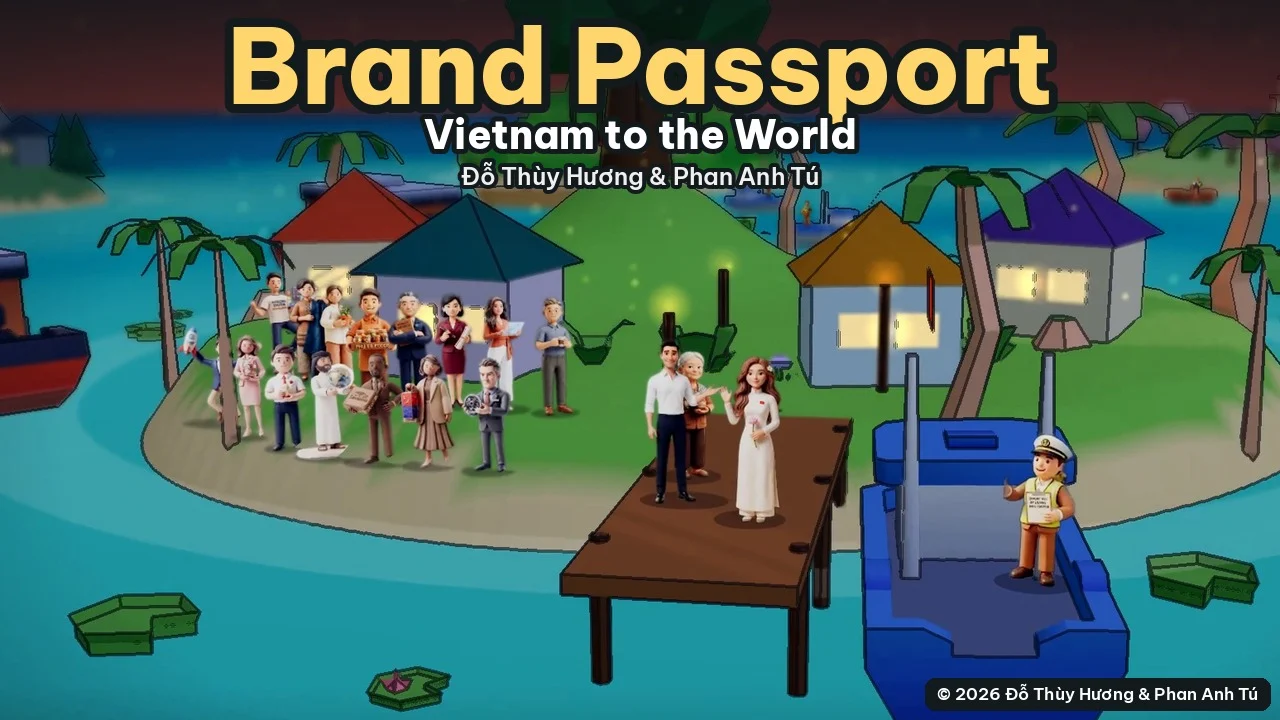
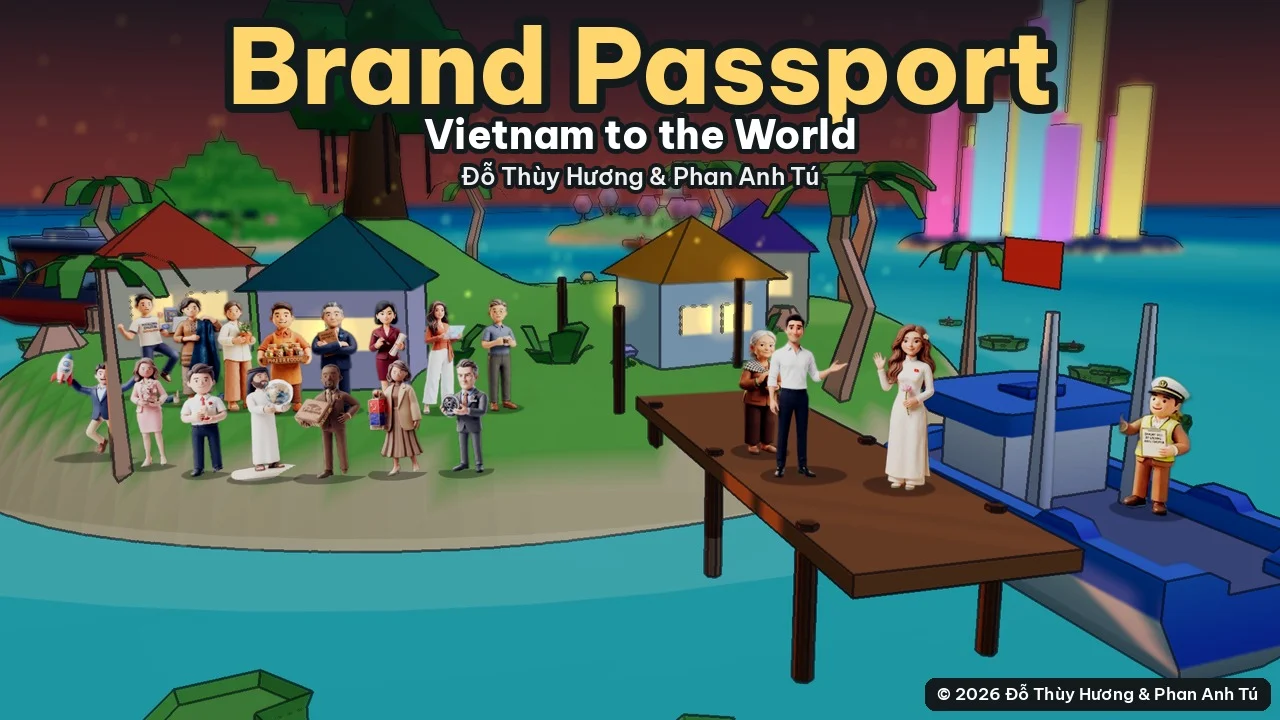
Thư viện Sáng tạo: bìa Brand Passport bản đủ nhân vật
Bìa dựng riêng từ cảnh 3D, máy quay gần hơn: thấy đủ cả đám đông, bà Sáu, Tú
Phan, Lumina và thuyền trưởng, không còn phụ đề hay chữ bản quyền vá lại. Tệp
này mới thêm trong chính PR này nên thay tại chỗ, không đụng ảnh có sẵn.

diff --git a/js/thu-vien-data.js b/js/thu-vien-data.js
@@ -7,7 +7,7 @@ scenes:[['rong-bay-doi-bizon.webp','Thanh Long cưỡi mây trên dòng Mekong l
 music:[['BizOn – L’Esprit du Mékong ⭐','Bài hát chính của BizOn · Đỗ Thùy Hương & Phan Anh Tú','bizon-lesprit-du-mekong'],['Hương on Return','Bài hát chính đầu tiên của BizOn · bản thu có lời','huong-on-return'],['Vừa Đủ Để Bay Cao','Ca khúc tiếng Việt · bản thu có lời','vua-du-de-bay-cao'],['BizOn Theme','Nhạc nền game · instrumental','bizon-theme'],['Bật Nghiệp','Ca khúc chủ đề game Việt Nam · bản thu có lời','bat-nghiep-co-loi'],['Hương sans frontières','Ca khúc BizOn Go Global · bản tiếng Việt','huong-and-the-world'],['Hương sans frontières (EN)','Bản song ngữ Anh–Việt · phát hành quốc tế','huong-and-the-world-en'],['Hương sans frontières (nam)','Bản phối giọng nam · lời tiếng Anh','huong-and-the-world-male'],['Hương et le Monde (FR)','Phiên bản tiếng Pháp · bản thu có lời','huong-et-le-monde']],
 merch:[['merch/pin-vietnam-clay3d.webp','Huy hiệu Bản đồ Việt Nam','Đất sét 3D đỏ viền vàng, sao vàng nổi; có quần đảo Hoàng Sa và Trường Sa – biểu tượng hành trình chinh phục 6 vòng chơi. Hình minh họa, không theo tỉ lệ.'],['merch/pin-set.webp','Bộ ba Sao đỏ · +84 · VIETNAM','Bộ pin BizOn Go Global – mang mã vùng +84 ra thế giới'],['character/anh-tu-pin.webp','Tú Phan với cài áo Việt Nam','Cố vấn học thuật đeo cài áo bản đồ Việt Nam trên ve áo vest']],
 /* MV 3D «Thế giới thu nhỏ» – bìa YouTube và khung cảnh lấy từ bản dựng có hậu kỳ (đường dẫn tính từ assets/) */
-mv:[["mv3d/bia-brand-passport-3d.webp","Bìa MV «Brand Passport – Vietnam to the World»","Cả đội tiễn Lumina và Tú Phan ở bến Đảo Mekong · ảnh bìa YouTube"],["mv3d/bia-durian-passport-3d.webp","Bìa MV «Durian Passport»","Chợ nổi miền Tây ngày thu hoạch sầu riêng · ảnh bìa YouTube"],["mv3d/bp-roi-ben-mekong.webp","Rời bến Đảo Mekong","Mở đầu MV Brand Passport · bà Sáu, các cố vấn và doanh nghiệp tiễn thuyền ra khơi"],["mv3d/bp-dao-mekong.webp","Đảo Mekong nhìn từ trên cao","Làng ven sông, cầu tàu và cảng container phía xa"],["mv3d/bp-tan-cang.webp","Cảng Tân Cảng","Cần cẩu và tàu container · một trong bảy đảo thị trường"],["mv3d/bp-ban-do-the-gioi.webp","Bản đồ bảy đảo thị trường","Các huy hiệu đảo quanh Đảo Mekong ở đoạn cao trào cuối bài"],["mv3d/bp-chia-tay-ca-doi.webp","Trở về Đảo Mekong","Cả đội đón thuyền về bến lúc chiều tà · đoạn kết MV Brand Passport"]],
+mv:[["mv3d/bia-brand-passport-3d.webp","Bìa MV «Brand Passport – Vietnam to the World»","Đủ cả đội ở bến Đảo Mekong: bà Sáu, cố vấn, doanh nghiệp, Lumina, Tú Phan và thuyền trưởng · ảnh bìa YouTube"],["mv3d/bia-durian-passport-3d.webp","Bìa MV «Durian Passport»","Chợ nổi miền Tây ngày thu hoạch sầu riêng · ảnh bìa YouTube"],["mv3d/bp-roi-ben-mekong.webp","Rời bến Đảo Mekong","Mở đầu MV Brand Passport · bà Sáu, các cố vấn và doanh nghiệp tiễn thuyền ra khơi"],["mv3d/bp-dao-mekong.webp","Đảo Mekong nhìn từ trên cao","Làng ven sông, cầu tàu và cảng container phía xa"],["mv3d/bp-tan-cang.webp","Cảng Tân Cảng","Cần cẩu và tàu container · một trong bảy đảo thị trường"],["mv3d/bp-ban-do-the-gioi.webp","Bản đồ bảy đảo thị trường","Các huy hiệu đảo quanh Đảo Mekong ở đoạn cao trào cuối bài"],["mv3d/bp-chia-tay-ca-doi.webp","Trở về Đảo Mekong","Cả đội đón thuyền về bến lúc chiều tà · đoạn kết MV Brand Passport"]],
 /* Hộ Chiếu Sầu Riêng 3D: rồng Tèo Soi, cậu bé nón lá, đại diện doanh nghiệp, người mua (đường dẫn tính từ assets/) */
 durian:[["dragon/teo-soi/wave.webp","Tèo Soi – Vẫy chào","Nút hỏi rồng · chào người chơi"],["dragon/teo-soi/walk.webp","Tèo Soi – Đi bộ","Theo chân người chơi qua các chặng"],["dragon/teo-soi/point-l.webp","Tèo Soi – Chỉ sang trái","Chỉ đường trong vườn và trên bản đồ"],["dragon/teo-soi/point-r.webp","Tèo Soi – Chỉ sang phải","Chỉ đường trong vườn và trên bản đồ"],["dragon/teo-soi/point-up.webp","Tèo Soi – Chỉ lên","Nhắc mục tiêu của vụ"],["dragon/teo-soi/think.webp","Tèo Soi – Suy nghĩ","Gợi ý khi người chơi cân nhắc quyết định"],["dragon/teo-soi/inspect.webp","Tèo Soi – Soi kính lúp","Kiểm tra trái sầu riêng trước khi xuất"],["dragon/teo-soi/stamp.webp","Tèo Soi – Đóng dấu hộ chiếu","Mỗi thị trường mở được thêm một con dấu"],["dragon/teo-soi/passport-show.webp","Tèo Soi – Khoe hộ chiếu","Hộ chiếu Sầu Riêng đã có dấu"],["dragon/teo-soi/carry-jump.webp","Tèo Soi – Ôm sầu riêng nhảy cẫng","Khi lô hàng được nhận"],["dragon/teo-soi/eat.webp","Tèo Soi – Ăn sầu riêng","Phần thưởng sau vụ thắng"],["dragon/teo-soi/yawn.webp","Tèo Soi – Ngáp","Sau 30 giây đứng yên"],["dragon/teo-soi/nap.webp","Tèo Soi – Ngủ trưa","Sau 45 giây đứng yên"],["dragon/teo-soi/sleep.webp","Tèo Soi – Ngủ say","Sau 90 giây đứng yên"],["dragon/teo-soi/surprised.webp","Tèo Soi – Ngạc nhiên","Khi có biến cố trên chuỗi"],["dragon/teo-soi/dizzy.webp","Tèo Soi – Chóng mặt","Khi kế hoạch bị đảo lộn"],["dragon/teo-soi/angry.webp","Tèo Soi – Giận dỗi","Khi lô hàng bị trả về"],["dragon/teo-soi/cry.webp","Tèo Soi – Mếu khóc","Khi vụ mùa thua lỗ"],["dragon/teo-soi/countdown.webp","Tèo Soi – Đếm ngược","3 – 2 – 1 trước khi bắt đầu"],["dragon/teo-soi/timer.webp","Tèo Soi – Bấm giờ","Nhắc thời gian của vòng chơi"],["dragon/teo-soi/time-record.webp","Tèo Soi – Kỷ lục thời gian","Khi đội lập kỷ lục mới"],["dragon/teo-soi/whistle.webp","Tèo Soi – Thổi còi, thẻ đỏ","Khi quyết định vi phạm luật chơi"],["dragon/teo-soi/salute.webp","Tèo Soi – Chào nghiêm","Chào đội ở cổng xuất phát"],["dragon/teo-soi/good-job.webp","Tèo Soi – Giơ ngón cái","Khen một quyết định hay"],["dragon/teo-soi/high-five.webp","Tèo Soi – Đập tay","Khi hoàn thành một chặng"],["dragon/teo-soi/bravo.webp","Tèo Soi – Vỗ tay «Bravo!»","Khi đạt chuẩn chứng nhận"],["dragon/teo-soi/cheer.webp","Tèo Soi – Reo mừng","Khi mở được thị trường mới"],["dragon/teo-soi/party.webp","Tèo Soi – Bắn pháo giấy","Ăn mừng cuối vụ"],["dragon/teo-soi/heart.webp","Tèo Soi – Ôm trái tim","Cảm ơn người chơi"],["dragon/teo-soi/thank-you.webp","Tèo Soi – Cảm ơn","Lời chào khi kết thúc ván"],["dragon/teo-soi/trophy.webp","Tèo Soi – Nâng cúp sầu riêng vàng","Khi đội về nhất"],["dragon/teo-soi/podium.webp","Tèo Soi – Bục nhất, đeo huy chương","Bảng xếp hạng lớp"],["hc/duo/ho-chieu.webp","Cậu bé nón lá & Tèo Soi – Cùng xem hộ chiếu","Màn chọn vai trước khi vào game"],["hc/duo/san-sang.webp","Cậu bé nón lá & Tèo Soi – Sẵn sàng lên đường","Màn hướng dẫn"],["hc/duo/di-cung.webp","Cậu bé nón lá & Tèo Soi – Đi cùng nhau","Màn hướng dẫn"],["hc/duo/om-teo.webp","Cậu bé nón lá & Tèo Soi – Ôm Tèo","Màn hướng dẫn"],["hc/duo/an-sau-rieng.webp","Cậu bé nón lá & Tèo Soi – Cùng ăn sầu riêng","Kết quả vụ thắng có lãi"],["hc/duo/dut-an.webp","Cậu bé nón lá & Tèo Soi – Đút Tèo ăn","Kết quả vụ thắng có lãi"],["hc/duo/liem-mep.webp","Cậu bé nón lá & Tèo Soi – Thèm sầu riêng","Kết quả vụ thắng có lãi"],["hc/duo/dap-la.webp","Cậu bé nón lá & Tèo Soi – Đắp lá cho Tèo ngủ","Khi hỏi rồng lúc Tèo đang ngủ"],["hc/duo/dap-non.webp","Cậu bé nón lá & Tèo Soi – Đắp nón lá","Khi hỏi rồng lúc Tèo đang ngủ"],["hc/cast/ban-non-la-dung-khong-de.webp","«Bạn» – Cậu bé nón lá (đứng)","Nhân vật người chơi · ảnh khi dừng lại"],["hc/cast/ban-non-la-chay.webp","«Bạn» – Cậu bé nón lá (chạy)","Nhân vật người chơi · ảnh khi di chuyển"],["hc/cast/huong-aodai-ho-chieu-cut.webp","Lumina – Áo dài cầm hộ chiếu","Cố vấn đồng hành ở cổng chào"],["hc/cast/huong-aodai-bang-cut.webp","Lumina – Áo dài giới thiệu","Cố vấn giải thích luật chơi"],["hc/cast/bac-ba-v4-cut.webp","Bác Ba – HTX Cai Lậy","Đại diện hợp tác xã trồng sầu riêng"],["hc/cast/ba-sau-lanh-v4-cut.webp","Bà Sáu Lành – Nhà vườn","Người trồng sầu riêng lâu năm"],["hc/cast/anh-tu-vietgap-cut.webp","Anh Tư – Trái đạt VietGAP","Đại diện cơ sở đóng gói Đắk Lắk"],["hc/cast/anh-tu-htx-cut.webp","Anh Tư – Giấy chứng nhận","Cơ sở đóng gói Đắk Lắk"],["hc/cast/minh-khang-chao-cut.webp","Minh Khang – Chào đối tác","Đại diện công ty xuất khẩu TP.HCM"],["hc/cast/minh-khang-hop-dong-cut.webp","Minh Khang – Cầm hợp đồng","Công ty xuất khẩu TP.HCM"],["hc/cast/an-nhien-qa-brix-cut.webp","An Nhiên – Đo độ Brix","QA nhà máy cấp đông Tiền Giang"],["hc/cast/an-nhien-qa-dong-lanh-cut.webp","An Nhiên – Khay sầu riêng đông lạnh","QA nhà máy cấp đông Tiền Giang"],["hc/cast/chi-nhan-vien-quet-cut.webp","Chị nhân viên siêu thị – Quét mã","Người mua ở kênh nội địa"],["hc/cast/chi-nhan-vien-tablet-cut.webp","Chị nhân viên siêu thị – Máy tính bảng","Người mua ở kênh nội địa"],["hc/duo/hop-dong-500-tan.webp","Anh Tư & Minh Khang – Hợp đồng 500 tấn","Bắt tay khi ký hợp đồng xuất khẩu"],["hc/duo/dat-chuan-a.webp","An Nhiên & chị nhân viên – Lô hàng đạt chuẩn A+","Khi lô hàng qua kiểm nghiệm"],["hc/chain2/cast-thuong-nhan-nu-v3.webp","Thương nhân (nữ)","Người mua sầu riêng trên chuỗi xuất khẩu"],["hc/chain2/cast-thuong-nhan-nam-v3.webp","Thương nhân (nam)","Người mua ở cửa khẩu"],["hc/chain2/cast-bo-ba-hai-quan-v3.webp","Bộ ba hải quan – kiểm dịch","Thủ tục thông quan thị trường Trung Quốc"],["hc/chain2/cast-kiem-dich-vien-v3.webp","Kiểm dịch viên","Kiểm dịch thực vật thị trường Nhật Bản"],["hc/chain2/cast-kiem-nghiem-vien-nu-v3.webp","Kiểm nghiệm viên","Kiểm nghiệm hàng đông lạnh"],["hc/chain2/cast-co-truong-logistics-v3.webp","Cơ trưởng logistics","Vận chuyển sang Đài Loan"],["hc/chain2/cast-doi-nguyen-cuu-vuon-v3.webp","Đội nghiên cứu vườn","Khảo sát vùng trồng"]],
 durianScenes:[["hc/scene/vuon-sau-rieng.webp","Vườn sầu riêng","Bản đồ vườn – nơi bắt đầu mỗi vụ"],["hc/scene/vuon-teo-chay.webp","Chạy trong vườn cùng Tèo","Màn chọn vai"],["hc/scene/sa-ban-chuoi.webp","Sa bàn chuỗi giá trị","Vườn – nhà máy – cảng – thị trường"],["hc/scene/nha-may-cap-dong.webp","Nhà máy cấp đông","Kênh hàng đông lạnh"],["hc/scene/nha-may-cap-dong-qa.webp","Kiểm tra chất lượng ở nhà máy","QA trước khi cấp đông"],["hc/scene/nha-may-cap-dong-teo.webp","Nhà máy cấp đông cùng Tèo","Cảnh kết quả vụ kênh đông lạnh"],["hc/scene/xe-ra-cang.webp","Xe lạnh ra cảng","Cảnh kết quả vụ"],["hc/scene/tau-ra-khoi.webp","Tàu ra khơi","Lô hàng lên đường xuất khẩu"],["hc/scene/cang-chao-don.webp","Cảng đón lô hàng","Thị trường nhận hàng"],["hc/scene/cat-bang-gian-hang.webp","Cắt băng gian hàng sầu riêng Việt","Gian hàng ở siêu thị nước ngoài"],["hc/scene/xep-hang-mua.webp","Khách xếp hàng mua","Gian hàng bán chạy"],["hc/roles/htx-cai-lay-mo-hinh.webp","Mô hình HTX Cai Lậy","Thẻ chọn doanh nghiệp"],["hc/roles/packer-dak-lak-mo-hinh.webp","Mô hình cơ sở đóng gói Đắk Lắk","Thẻ chọn doanh nghiệp"],["hc/roles/exporter-tphcm-mo-hinh.webp","Mô hình công ty xuất khẩu TP.HCM","Thẻ chọn doanh nghiệp"],["hc/roles/frozen-tien-giang-mo-hinh.webp","Mô hình nhà máy cấp đông Tiền Giang","Thẻ chọn doanh nghiệp"],["hc/roles/dom-sieu-thi-kho-lanh.webp","Mô hình siêu thị & kho lạnh","Kênh bán nội địa"]]

diff --git a/js/thu-vien-data-en.js b/js/thu-vien-data-en.js
@@ -3,7 +3,7 @@
    Mục nào thiếu ở đây thì trang giữ nguyên bản tiếng Việt. */
 window.BZ_LIB_EN={
 /* mv */
-'mv3d/bia-brand-passport-3d.webp':['Cover of the MV «Brand Passport – Vietnam to the World»','The whole team sees Lumina and Tú Phan off at the Mekong Island pier · YouTube cover'],
+'mv3d/bia-brand-passport-3d.webp':['Cover of the MV «Brand Passport – Vietnam to the World»','The whole cast at the Mekong Island pier: Bà Sáu, the advisors, the firms, Lumina, Tú Phan and the captain · YouTube cover'],
 'mv3d/bia-durian-passport-3d.webp':['Cover of the MV «Durian Passport»','A Mekong floating market on durian harvest day · YouTube cover'],
 'mv3d/bp-roi-ben-mekong.webp':['Leaving Mekong Island','Opening of the Brand Passport MV · Bà Sáu, the advisors and the firms wave the boat off'],
 'mv3d/bp-dao-mekong.webp':['Mekong Island from above','The riverside village, the pier and a container port in the distance'],
